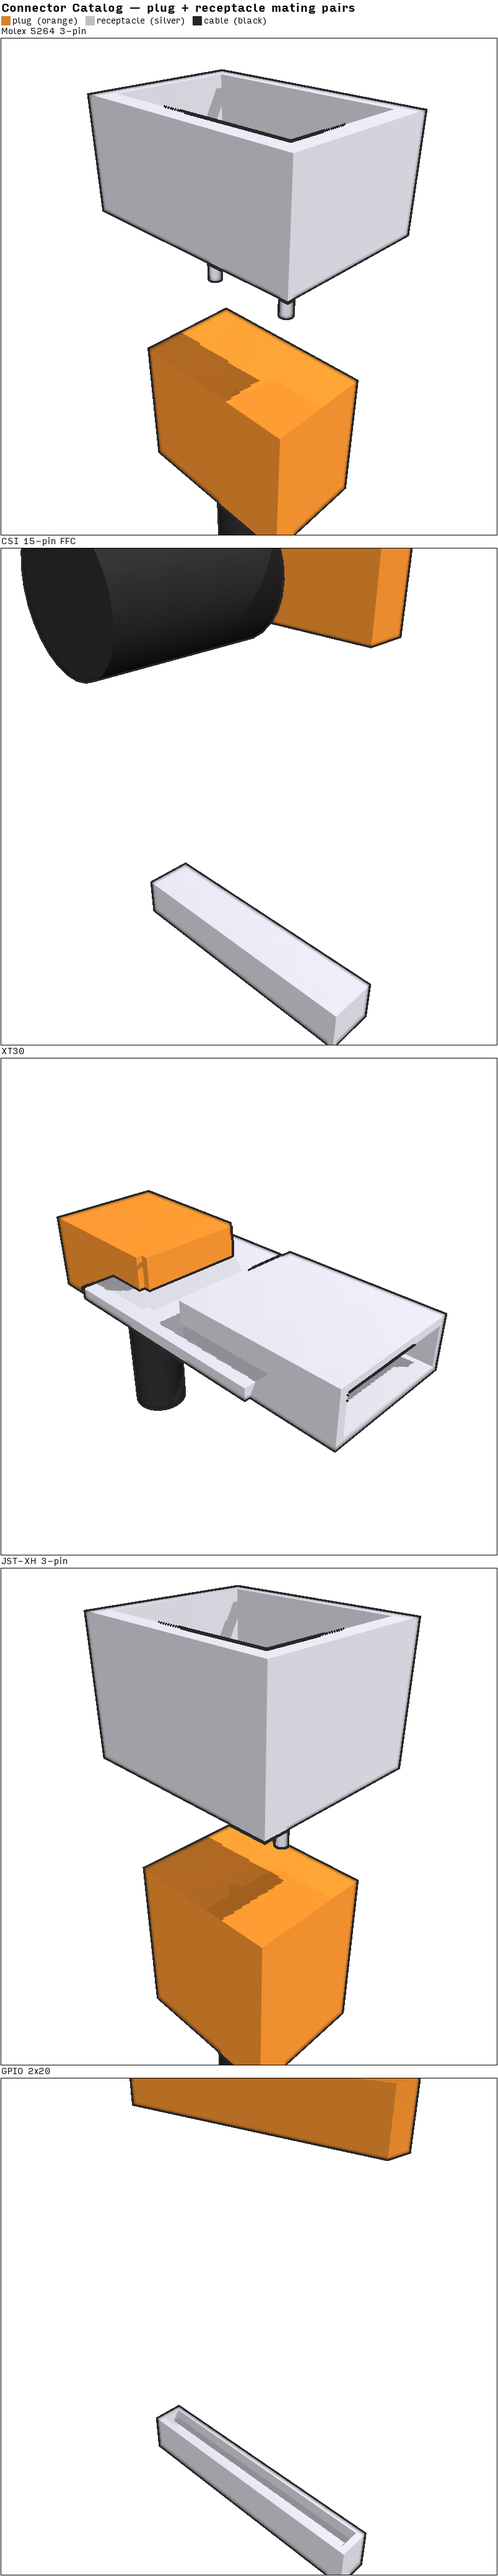
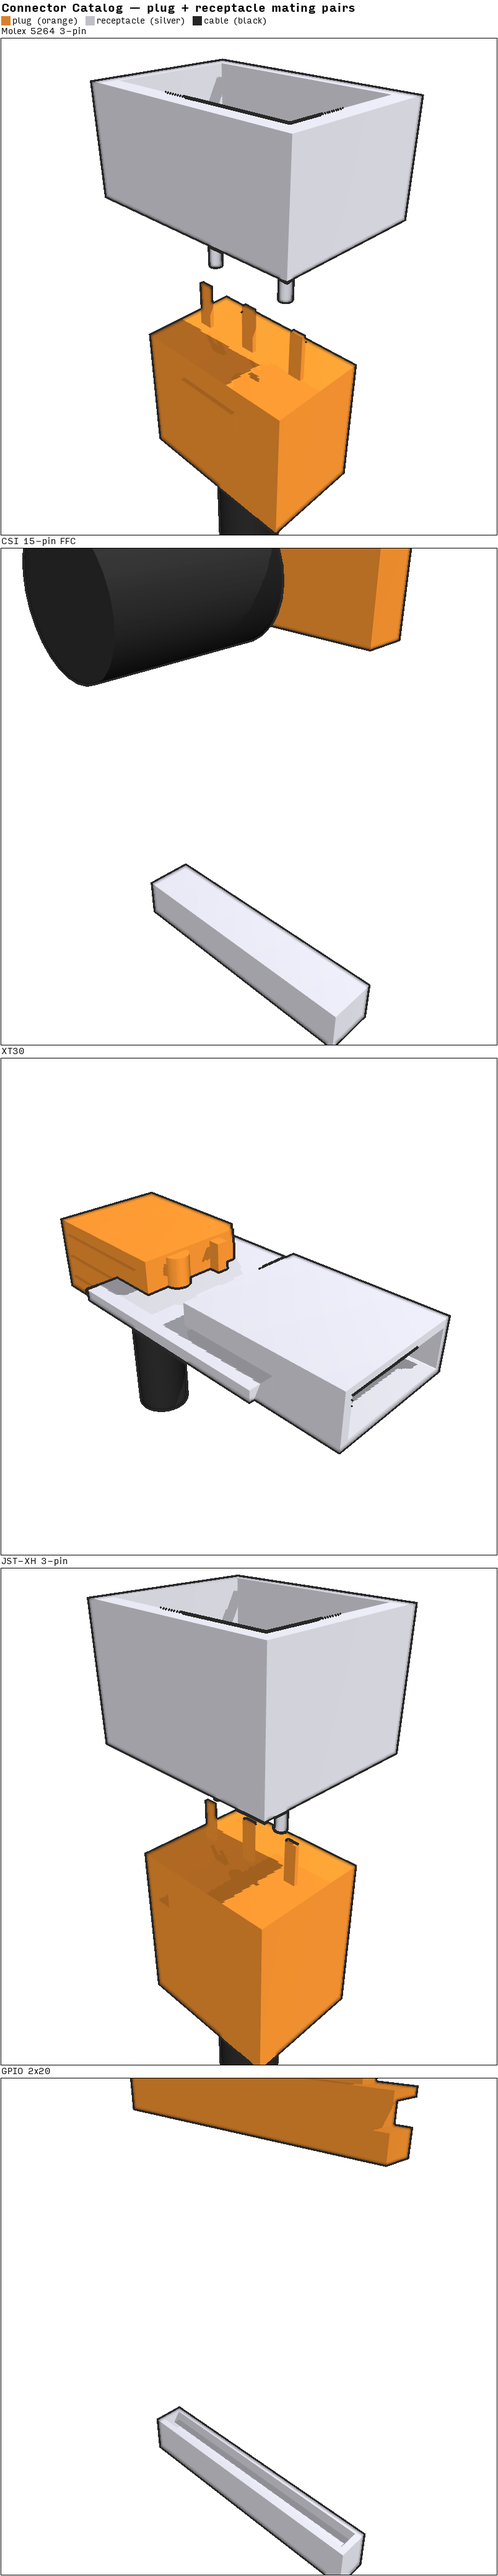
feat: detailed connector plug geometry — pins, keys, locking tabs
Connector plugs now match the detail level of receptacles:

- Molex 5264: 3 pin blades on mating face, polarization rib, locking
  tab, wire entry channels on back
- CSI FFC: ZIF lever, ribbon cable slot with contact ridges visible
- XT30: round + flat pin pair (polarity keying), corner chamfer,
  grip ridges on sides
- JST-XH: 3 pin blades, sprung locking tab, polarization groove,
  strain relief bumps on wire entry
- GPIO 2x20: 40 socket holes in 2x20 grid, keying notch, cable exit

The mating pair renders now clearly show how pins align with cavities.

diff --git a/botcad/connectors.py b/botcad/connectors.py
@@ -126,14 +126,15 @@ def connector_spec(connector_type: str) -> ConnectorSpec:
 
 @lru_cache(maxsize=16)
 def connector_solid(spec: ConnectorSpec):
-    """Build a simplified connector housing solid.
+    """Build a detailed connector plug/jack solid.
 
-    Centered at origin, correct proportions with retention features
-    as bumps. No individual pins — "recognizable from 3 feet away."
+    Centered at origin with recognizable features: pin blades on the
+    mating face, polarization keys, locking tabs, wire entry channels.
+    Correct proportions from datasheets — "recognizable from 3 feet away."
 
     Returns a build123d Solid.
     """
-    from build123d import Align, Box, Location
+    from build123d import Align, Box, Cylinder, Location
 
     from botcad.cad_utils import as_solid as _as_solid
 
@@ -144,43 +145,145 @@ def connector_solid(spec: ConnectorSpec):
     body = Box(bx, by, bz, align=C)
 
     if spec.connector_type == ConnectorType.MOLEX_5264_3PIN:
-        # Retention bump on one side
-        bump = Box(bx * 0.6, by * 0.15, bz * 0.3, align=C)
-        bump = bump.locate(Location((0, by / 2, bz * 0.1)))
-        body = body.fuse(bump)
+        # Polarization rib on one side (asymmetric key)
+        rib = Box(bx * 0.15, by * 0.12, bz * 0.7, align=C)
+        rib = rib.locate(Location((-bx * 0.35, by / 2, -bz * 0.05)))
+        body = body.fuse(rib)
+
+        # Locking tab on opposite side
+        tab = Box(bx * 0.4, by * 0.08, bz * 0.15, align=C)
+        tab = tab.locate(Location((0, -by / 2, bz * 0.25)))
+        body = body.fuse(tab)
+
+        # 3 pin blades protruding from mating face (+Z)
+        pin_w = 0.0006  # 0.6mm wide blade
+        pin_d = 0.0002  # 0.2mm thick
+        pin_h = 0.002  # 2mm protrusion
+        pitch = 0.00254  # 2.54mm pitch
+        for i in range(3):
+            px = -pitch + i * pitch
+            pin = Box(
+                pin_w, pin_d, pin_h, align=(Align.CENTER, Align.CENTER, Align.MIN)
+            )
+            pin = pin.locate(Location((px, 0, bz / 2)))
+            body = body.fuse(pin)
+
+        # Wire entry channels on back face (-Z) — 3 circular dips
+        for i in range(3):
+            px = -pitch + i * pitch
+            chan = Cylinder(0.0005, by * 0.3, align=C)
+            chan = chan.locate(Location((px, 0, -bz / 2)))
+            body = body - chan
 
     elif spec.connector_type == ConnectorType.CSI_15PIN:
-        # ZIF lever on top
-        lever = Box(bx * 0.9, by * 0.3, bz * 0.15, align=C)
-        lever = lever.locate(Location((0, 0, bz / 2)))
+        # ZIF lever on top (hinged flap)
+        lever_h = bz * 0.2
+        lever = Box(bx * 0.92, by * 0.6, lever_h, align=C)
+        lever = lever.locate(Location((0, 0, bz / 2 + lever_h / 2 - 0.0002)))
         body = body.fuse(lever)
 
+        # Ribbon cable slot on bottom face — wide thin opening
+        slot = Box(bx * 0.85, by * 0.4, bz * 0.3, align=C)
+        slot = slot.locate(Location((0, -by * 0.1, -bz * 0.35)))
+        body = body - slot
+
+        # Contact ridges inside (visible through slot)
+        for i in range(7):
+            rx = -bx * 0.38 + i * bx * 0.76 / 6
+            ridge = Box(0.0003, by * 0.2, bz * 0.15, align=C)
+            ridge = ridge.locate(Location((rx, -by * 0.1, -bz * 0.15)))
+            body = body.fuse(ridge)
+
     elif spec.connector_type == ConnectorType.XT30:
-        # Chamfered mating face (slight taper)
-        chamfer_block = Box(bx * 0.1, by * 0.1, bz, align=C)
+        # Keying: one corner chamfered (polarization)
+        chamfer_block = Box(bx * 0.15, by * 0.15, bz + 0.001, align=C)
         chamfer_block = chamfer_block.locate(Location((bx / 2, by / 2, 0)))
         body = body - chamfer_block
-        chamfer_block2 = Box(bx * 0.1, by * 0.1, bz, align=C)
-        chamfer_block2 = chamfer_block2.locate(Location((bx / 2, -by / 2, 0)))
-        body = body - chamfer_block2
+
+        # Two pin sockets on mating face (+X) — round and square
+        # XT30 has one round pin and one flat pin for polarity
+        round_pin = Cylinder(
+            0.001, 0.003, align=(Align.CENTER, Align.CENTER, Align.MIN)
+        )
+        round_pin = round_pin.locate(Location((bx / 2, -by * 0.2, 0)))
+        body = body.fuse(round_pin)
+
+        flat_pin = Box(
+            0.002, 0.001, 0.003, align=(Align.CENTER, Align.CENTER, Align.MIN)
+        )
+        flat_pin = flat_pin.locate(Location((bx / 2, by * 0.2, 0)))
+        body = body.fuse(flat_pin)
+
+        # Grip ridges on sides
+        for i in range(3):
+            gz = -bz * 0.3 + i * bz * 0.3
+            ridge = Box(bx * 0.8, by * 0.06, 0.0005, align=C)
+            ridge = ridge.locate(Location((0, by / 2, gz)))
+            body = body.fuse(ridge)
+            ridge2 = Box(bx * 0.8, by * 0.06, 0.0005, align=C)
+            ridge2 = ridge2.locate(Location((0, -by / 2, gz)))
+            body = body.fuse(ridge2)
 
     elif spec.connector_type == ConnectorType.JST_XH_3PIN:
-        # Retention bump
-        bump = Box(bx * 0.5, by * 0.12, bz * 0.25, align=C)
-        bump = bump.locate(Location((0, by / 2, bz * 0.15)))
-        body = body.fuse(bump)
+        # Locking tab (sprung clip on one side)
+        tab_w = bx * 0.35
+        tab_h = bz * 0.12
+        tab_d = by * 0.08
+        tab = Box(tab_w, tab_d, tab_h, align=C)
+        tab = tab.locate(Location((0, by / 2 + tab_d / 2, bz * 0.2)))
+        body = body.fuse(tab)
+
+        # Polarization groove on housing
+        groove = Box(bx * 0.12, by + 0.001, bz * 0.15, align=C)
+        groove = groove.locate(Location((-bx * 0.35, 0, bz * 0.3)))
+        body = body - groove
+
+        # 3 pin blades on mating face (+Z)
+        pitch = 0.0025  # 2.5mm XH pitch
+        pin_w = 0.0006
+        pin_d = 0.0002
+        pin_h = 0.002
+        for i in range(3):
+            px = -pitch + i * pitch
+            pin = Box(
+                pin_w, pin_d, pin_h, align=(Align.CENTER, Align.CENTER, Align.MIN)
+            )
+            pin = pin.locate(Location((px, 0, bz / 2)))
+            body = body.fuse(pin)
+
+        # Wire entry on back face (-Z) — strain relief bumps
+        for i in range(3):
+            px = -pitch + i * pitch
+            bump = Cylinder(
+                0.0006, 0.001, align=(Align.CENTER, Align.CENTER, Align.MAX)
+            )
+            bump = bump.locate(Location((px, 0, -bz / 2)))
+            body = body.fuse(bump)
 
     elif spec.connector_type == ConnectorType.GPIO_2X20:
-        # Pin header rows (two ridges on bottom)
-        row_w = bx * 0.95
-        row_d = 0.001
-        row_h = bz * 0.3
-        for y_off in [-0.00127, 0.00127]:  # 2.54mm pitch / 2
-            row = Box(
-                row_w, row_d, row_h, align=(Align.CENTER, Align.CENTER, Align.MIN)
-            )
-            row = row.locate(Location((0, y_off, -bz / 2)))
-            body = body.fuse(row)
+        # 2x20 socket connector (female) — shroud with pin cavities
+        # Keying notch on one side
+        notch = Box(0.003, by + 0.001, bz * 0.4, align=C)
+        notch = notch.locate(Location((bx / 2 - 0.001, 0, bz * 0.15)))
+        body = body - notch
+
+        # Two rows of socket holes on mating face (-Z)
+        pitch = 0.00254
+        for row_y in [-0.00127, 0.00127]:
+            for i in range(20):
+                px = -pitch * 9.5 + i * pitch
+                hole = Cylinder(
+                    0.0004,
+                    bz * 0.5,
+                    align=(Align.CENTER, Align.CENTER, Align.MAX),
+                )
+                hole = hole.locate(Location((px, row_y, -bz / 2)))
+                body = body - hole
+
+        # Strain relief cable exit on top
+        cable_exit = Box(bx * 0.8, by * 0.6, 0.002, align=C)
+        cable_exit = cable_exit.locate(Location((0, 0, bz / 2 + 0.001)))
+        body = body.fuse(cable_exit)
 
     return _as_solid(body)
 
